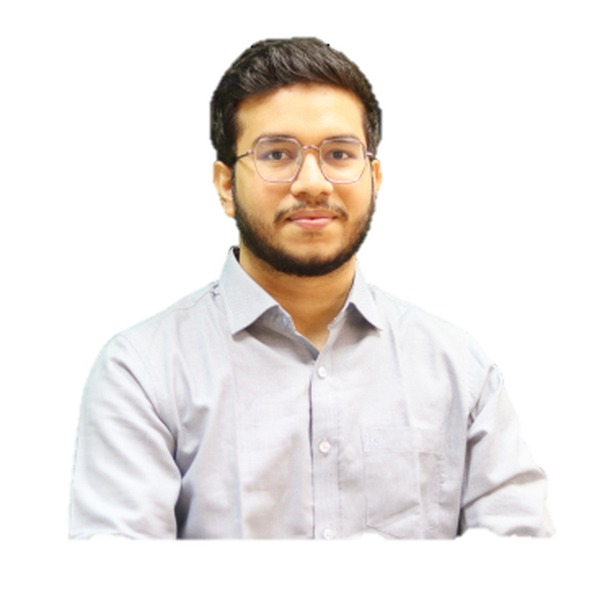
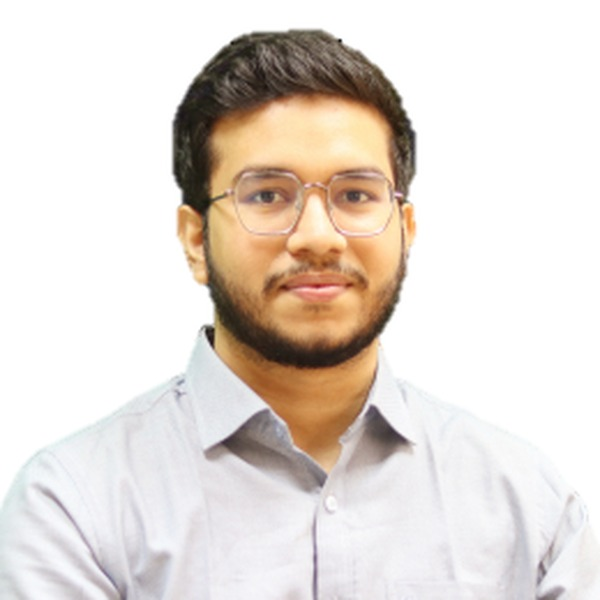
Add files via upload

diff --git a/_pages/about.md b/_pages/about.md
@@ -3,7 +3,7 @@ title: "Home"
 permalink: /
 author_profile: true
 ---
-![image](/images/main_logo.png)
+![image](/images/main_banner.jpg)
 
 <div class="hero-block">
   <h1>Power Electronics and Drives Research Lab</h1>
